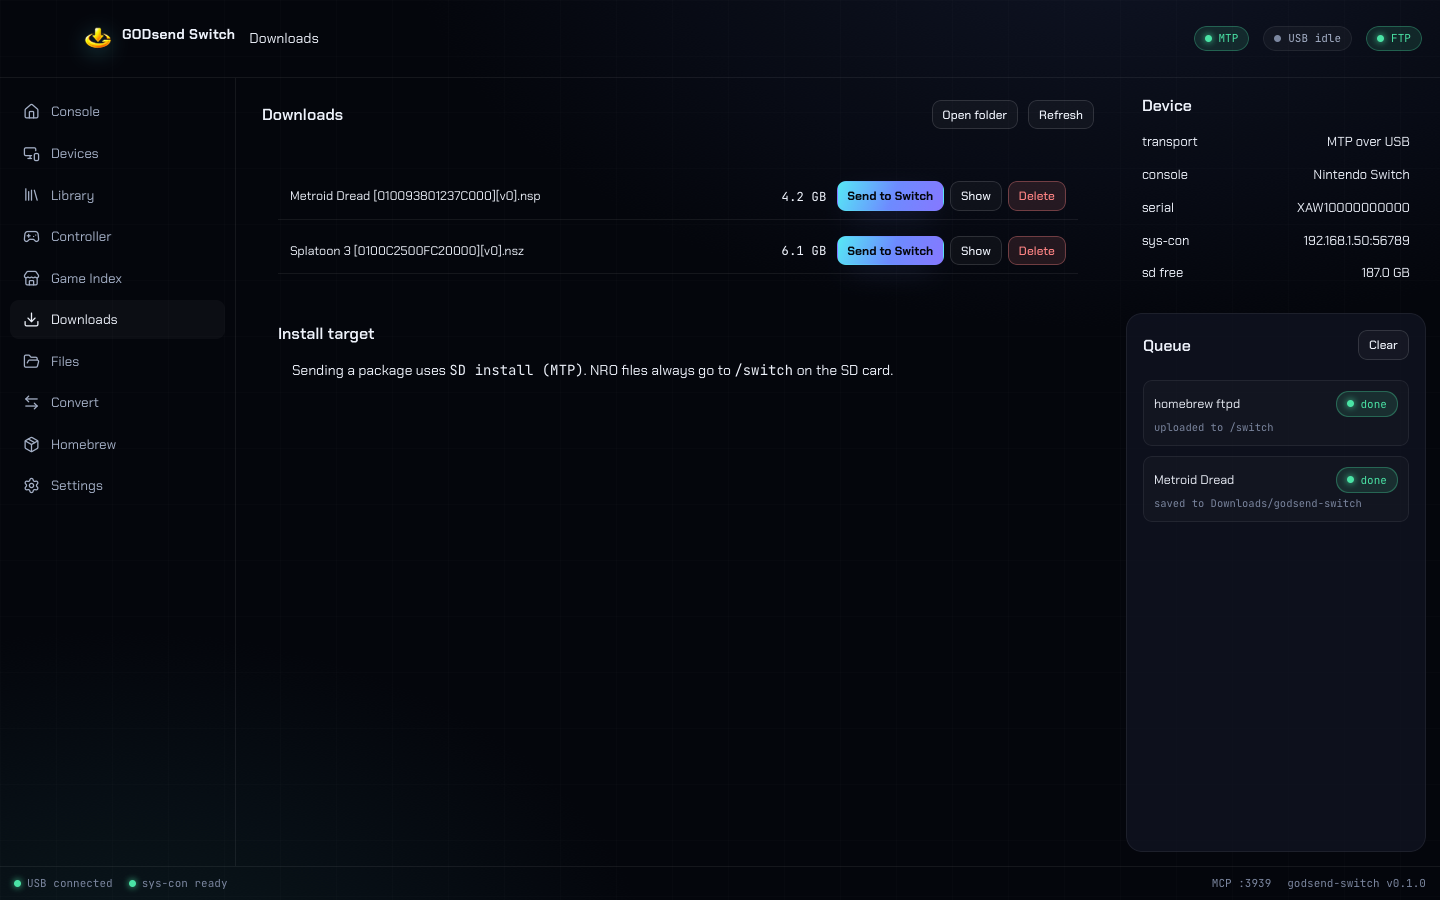
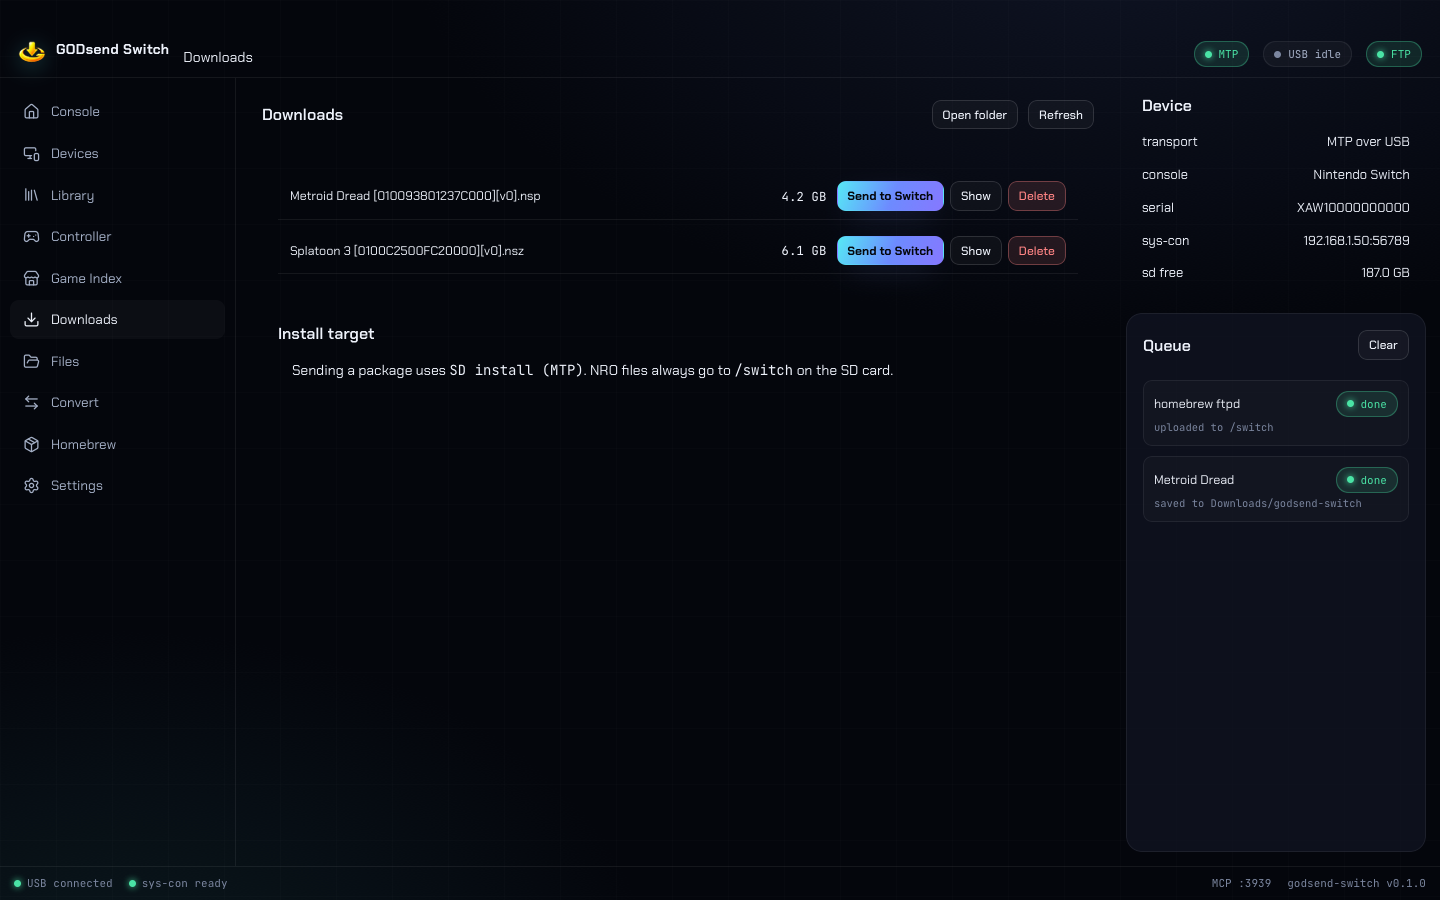
ui: sit the macOS brand below the traffic lights, not right of them

Changed region(s): [[0.8125, 0.0311, 1.0, 0.0933], [0.0, 0.0311, 0.2188, 0.0933]]

diff --git a/app/src/styles.css b/app/src/styles.css
@@ -196,8 +196,11 @@ html[data-os="mac"] .shell {
   user-select: none;
 }
 
+/* macOS: keep the brand left-aligned (like GODsend PSP) but sit the bar
+   contents below the traffic lights instead of shifting them right. */
 html[data-os="mac"] .topbar {
-  padding-left: 84px;
+  align-items: flex-end;
+  padding-bottom: 10px;
 }
 
 .topbar .brand {

diff --git a/CHANGELOG.md b/CHANGELOG.md
@@ -40,6 +40,8 @@ First release.
   their base.
 - Settings saves are atomic; FTP connects time out; folder uploads skip
   symlinks; remote download names cannot escape the download folder.
+- macOS keeps the brand left-aligned like GODsend PSP, sitting it below the
+  traffic lights instead of shifting it right.
 
 ### Notes
 
